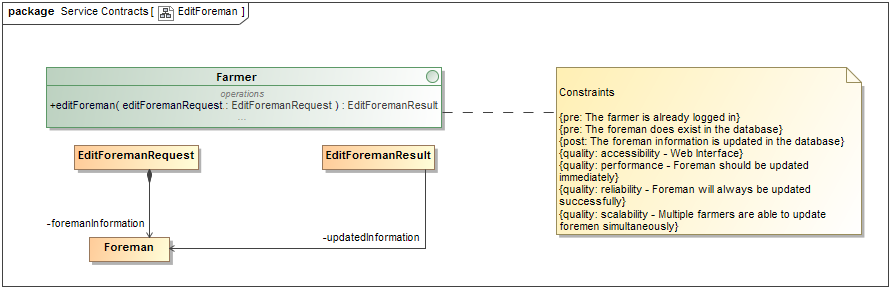
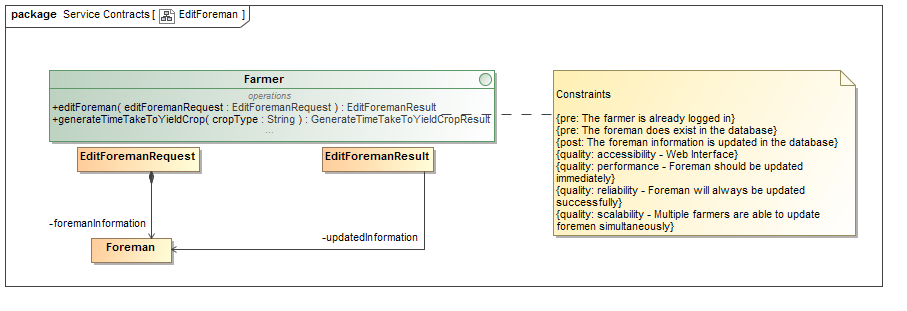
Updated service contracts, use cases and activity diagrams. Added all service contracts and linked images

Changed region(s): [[0.0, 0.0, 0.9989, 0.931], [0.0, 0.9621, 0.9989, 0.9931]]

diff --git a/Functional Requirements/main.tex b/Functional Requirements/main.tex
@@ -627,7 +627,45 @@
 	\end{figure}
 \end{itemize}
 
-%View and Update Worker Yield
+\section{View Worker Yield}
+\begin{itemize}
+	\item Description\\
+	This use case will be initiated by the foreman to view the current state of a specific worker’s performance details on the system via the Android or iOS interface.
+	\item Pre-Conditions
+	\begin{enumerate}
+		\item The foreman is currently logged into the system.
+		\item The worker already exists in the database.				 
+	\end{enumerate}
+	\item Post-Conditions
+	\begin{enumerate}
+		\item The worker’s performance details will be displayed.
+	\end{enumerate}
+	\item Service Contract
+	\begin{figure}
+		\includegraphics[scale=0.5]{ServiceContracts/class__ViewWorkeYield.png}
+		\caption{View Worker Performance}
+	\end{figure}
+\end{itemize}
+
+\section{Update Worker Yield}
+\begin{itemize}
+	\item Description\\
+	This use case will be initiated by the foreman to update a specific worker’s performance by adjusting the yields collected by the worker on the system via the Android or iOS interface.
+	\item Pre-Conditions
+	\begin{enumerate}
+		\item The foreman is currently logged into the system.
+		\item The worker already exists in the database.			
+	\end{enumerate}
+	\item Post-Conditions
+	\begin{enumerate}
+		\item The worker’s performance details are updated in the database.
+	\end{enumerate}
+	\item Service Contract
+	\begin{figure}
+		\includegraphics[scale=0.5]{ServiceContracts/class__updateWorkerYield.png}
+		\caption{Update Worker Performance}
+	\end{figure}
+\end{itemize}
 
 \section{Create Yield Measurement Type}
 \begin{itemize}
@@ -772,7 +810,36 @@
 	\end{figure}
 \end{itemize}
 
-%Maintain Worker-Foreman Assingments
+\section{Maintain Worker-Foreman Assignments}
+\begin{itemize}
+	\item Description\\
+	This use case will be initiated by the farmer to assign/reassign a specific worker to a specific foreman on the system via the Web interface.
+	\item Pre-Conditions
+	\begin{enumerate}
+		\item The farmer is currently logged into the system. (i.e. Super user logged in)
+		\item The worker already exists in the database. 
+		\item The foreman already exists in the database.
+		\item The worker-foreman assignment already exists in the database. (For reassignment)				
+	\end{enumerate}
+	\item Post-Conditions
+	\begin{enumerate}
+		\item The worker-foreman assignment is added to the database. (For assignment)
+		\item The worker-foreman assignment is updated in the database. (For reassignment)		
+	\end{enumerate}
+	\item Service Contract
+	\begin{figure}
+		\includegraphics[scale=0.5]{ServiceContracts/class__AssignWorkerToForeman.png}
+		\caption{Assign Worker to Foreman}
+	\end{figure}
+	\begin{figure}
+		\includegraphics[scale=0.5]{ServiceContracts/class__ReassignWorkerToForeman.png}
+		\caption{Reassign Worker to New Foreman}
+	\end{figure}
+	\begin{figure}
+		\includegraphics[scale=0.5]{ServiceContracts/class__ViewWorkerForemanAssignment.jpg}
+		\caption{Maintain Worker-Foreman Assignments}
+	\end{figure}
+\end{itemize} 
 
 \section{Import Census Data}
 \begin{itemize}
@@ -977,7 +1044,25 @@
 	\end{figure}
 \end{itemize}
 
-%Generate Report
+\section{Generate Statistical Report Regarding Time Taken to Yield Specific Crops}
+\begin{itemize}
+	\item Description\\
+	This use case will be initiated by the farmer to generate a report showing the amount of time it takes to yield certain crops for statistical purposes via the Web interface.
+	\item Pre-Conditions
+	\begin{enumerate}
+		\item The farmer is currently logged into the system. (i.e. Super user logged in)
+		\item The data regarding the time it takes to yield specific crops is present in the database.
+	\end{enumerate}
+	\item Post-Conditions
+	\begin{enumerate}
+		\item The time taken to yield specific crops report has been generated in a usable format.
+	\end{enumerate}
+	\item Service Contract
+	\begin{figure}
+		\includegraphics[scale=0.5]{ServiceContracts/class__GenerateStatisticalReportRegardingTimeTakenToYieldSpecificCrops.png}
+		\caption{Generate Statistical Report Regarding Time Taken to Yield Specific Crops}
+	\end{figure}
+\end{itemize}
 
 
 
